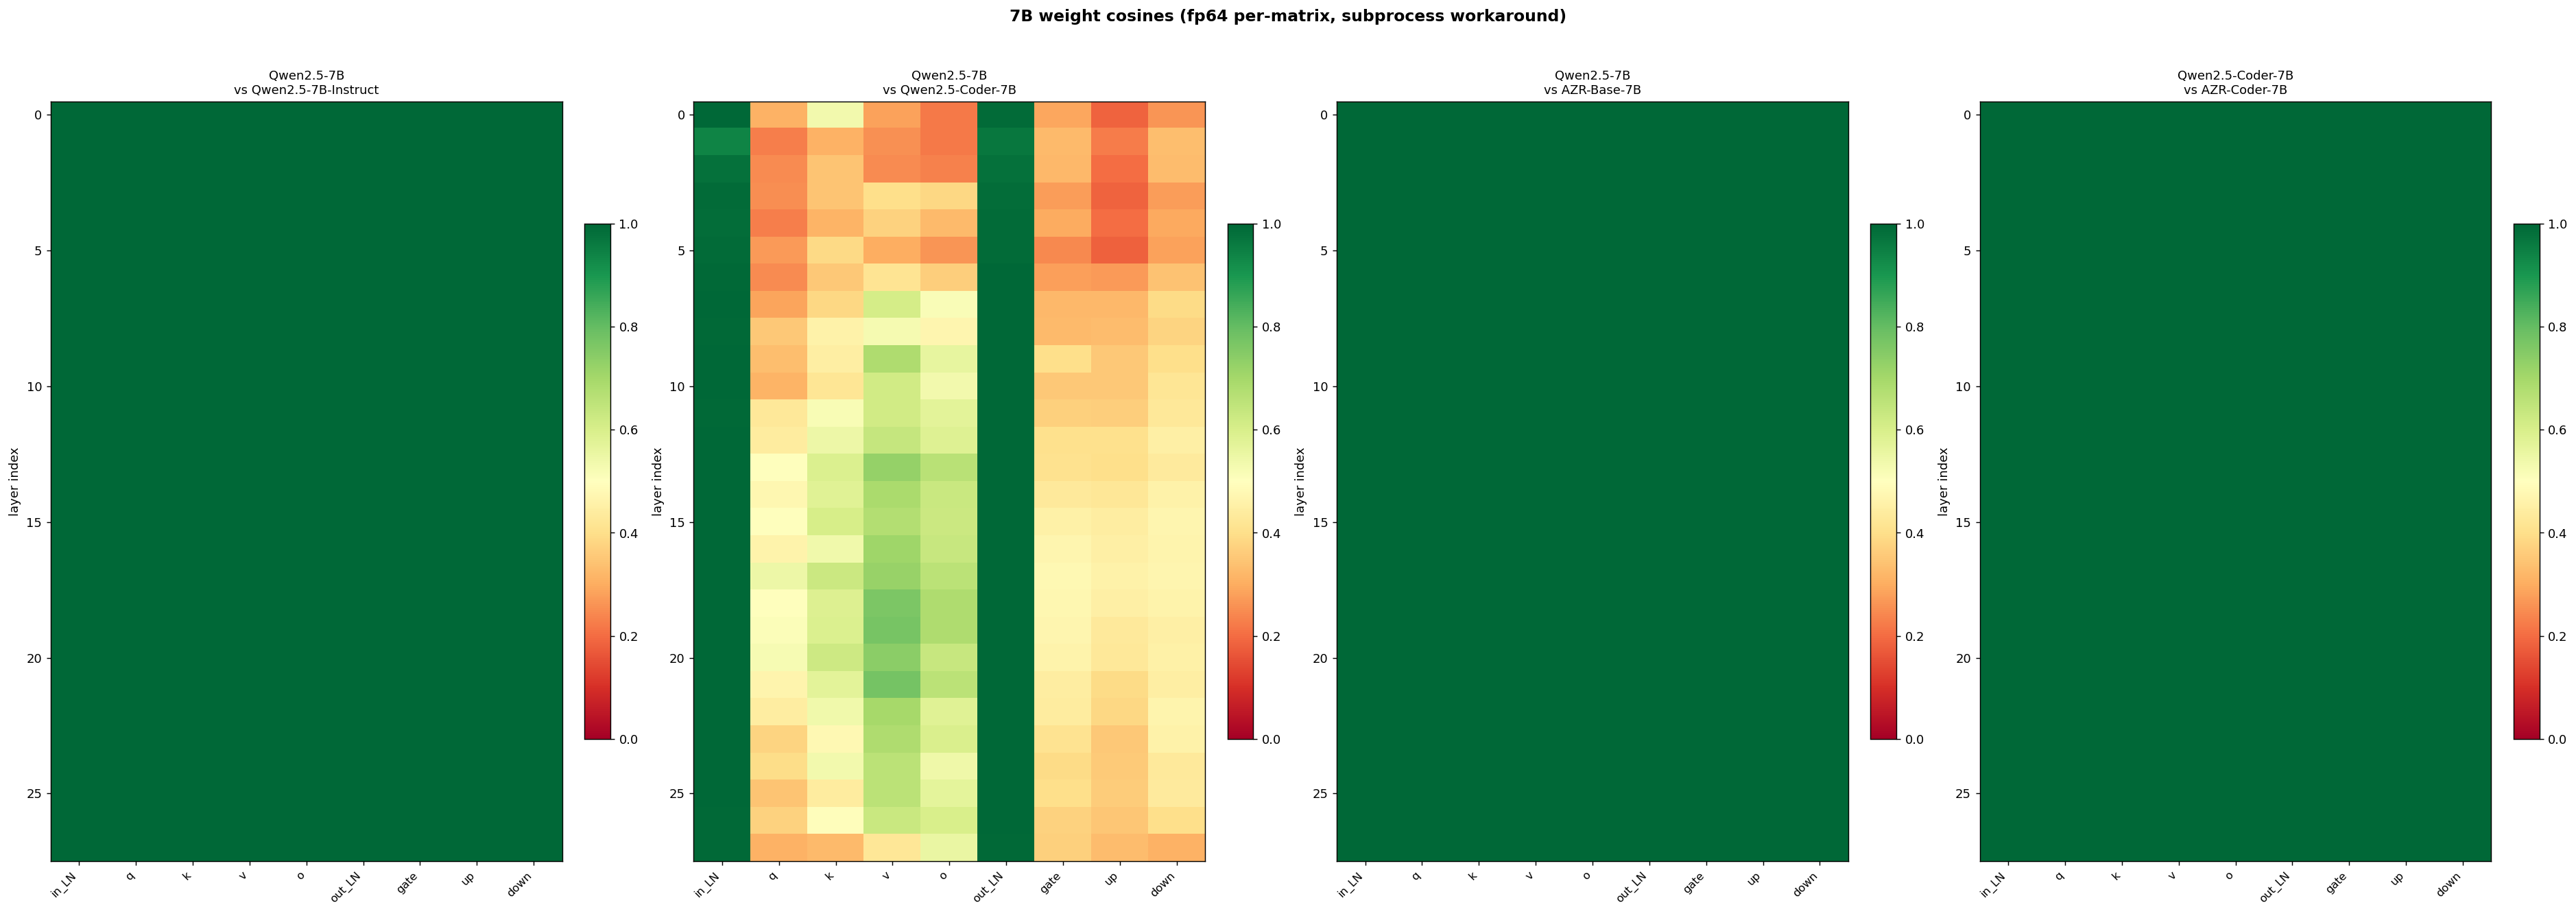
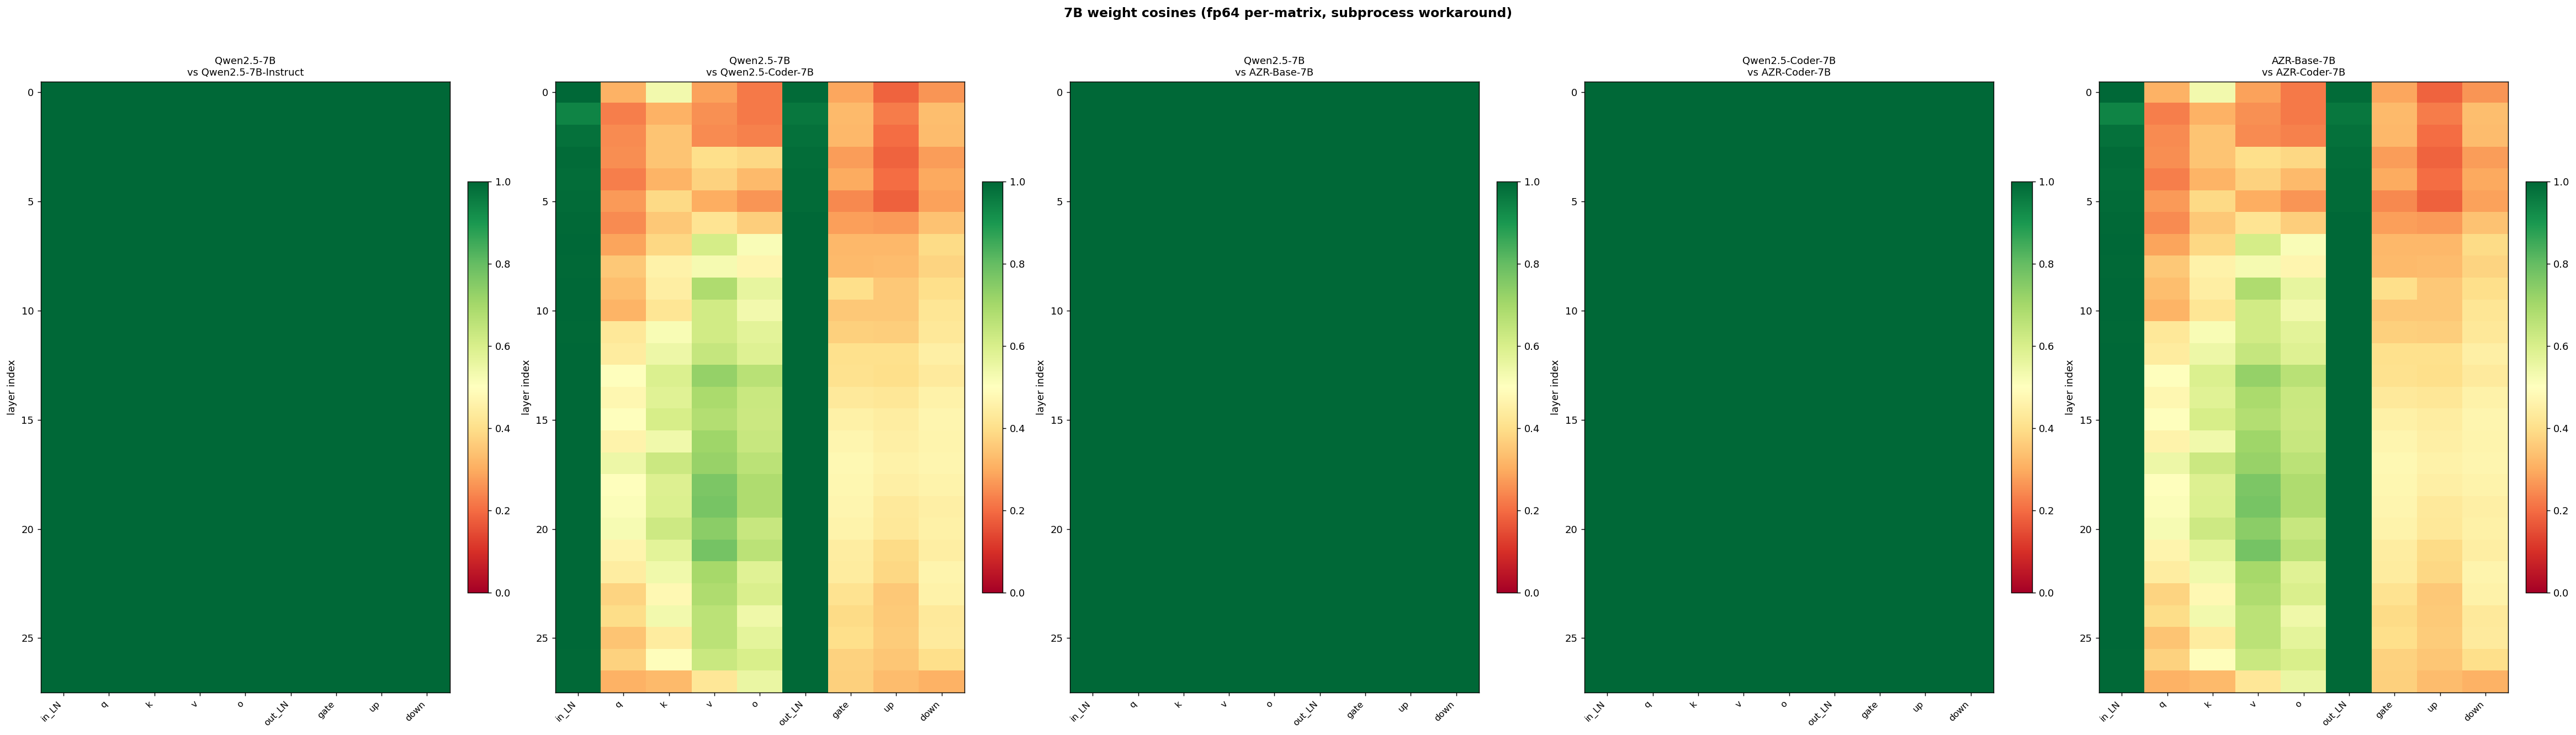
7B weight_diff: cross_AZR completed via --no-gpu CPU fallback (5/5 pairs)
The cross_AZR (AZR-Base ↔ AZR-Coder) pair crashed twice on GPU with
Windows 0xC0000005 access violation, regardless of A/B order. Switching
to --no-gpu (pure CPU fp64 cosines, no CUDA initialization at all)
succeeded in ~5 min.

Diagnosis:
- NOT a RAM issue: CPU mode uses the same ~28 GB system memory.
- NOT a per-AZR loading issue: each AZR loads fine when paired with
  plain Qwen2.5-7B or Qwen2.5-Coder-7B.
- IS specifically: two AZRs from different repos (andrewzh vs andrewzh2)
  loaded simultaneously + CUDA driver state interact badly on Windows
  11 GB GPU. Likely safetensors mmap × CUDA context collision.

Cross_AZR result (key finding):
  embed cos    = 0.179276       (== base ↔ Coder digit-for-digit)
  final_norm   = 0.989822       (== base ↔ Coder)
  lm_head cos  = 0.381147       (≈ base ↔ Coder's 0.381146)
  layer min    = 0.179812       (== base ↔ Coder)
  layer median = 0.468363       (== base ↔ Coder)

This is the cleanest visual proof of F0 (self-evolving doesn't change
weights): since AZR-Base ≈ Qwen2.5-7B and AZR-Coder ≈ Qwen2.5-Coder-7B
(both cos ≈ 1), the cross_AZR distance equals the base↔Coder distance
exactly. If self-evolving had modified weights at all, cross_AZR would
differ from domain. It doesn't — to fp64 precision.

5-panel heatmap re-rendered. MASTER_RESULTS §2.3 (EN + ZH) updated with:
- Full 5-pair table replacing the prior "worker crashed" placeholder
- CUDA bug diagnosis subsection
[…]

diff --git a/results/MASTER_RESULTS.md b/results/MASTER_RESULTS.md
@@ -171,7 +171,7 @@ Each contains `candidate_directions.npz` (shape `(n_pos=5, n_layer, d_model)` pe
 | base ↔ Coder (domain) | **0.179276** | 0.989822 | **0.381146** | 0.179812 / 0.564280 / 0.468363 |
 | **base ↔ AZR-Base (self_evolving_direct)** | **0.999999969** | **1.000000** | **0.999999874** | **0.999999 / 1.000000 / 1.000000** |
 | **Coder ↔ AZR-Coder (self_evolving_via_coder)** | **0.999999967** | **1.000000** | **0.999999910** | **0.999999 / 1.000000 / 1.000000** |
-| AZR-Base ↔ AZR-Coder (cross_AZR) | — | — | — | worker crashed (Windows 0xC0000005 access violation) |
+| AZR-Base ↔ AZR-Coder (cross_AZR) | **0.179276** | 0.989822 | **0.381147** | 0.179812 / 0.564279 / 0.468363 |
 
 7B has `tie_word_embeddings = False`, so lm_head is separate.
 
@@ -181,6 +181,17 @@ This **directly falsifies "AZR rewrites the weights"** for:
 - **AZR-Base-7B** (self-evolving directly from plain Qwen2.5-7B): cos ≈ 1 with base
 - **AZR-Coder-7B** (self-evolving from Coder-7B): cos ≈ 1 with Coder
 - Both self-evolving paths leave weights **bit-identical to fp64 precision**.
+
+**Cross_AZR transitivity check**: cosine numbers for AZR-Base ↔ AZR-Coder (embed 0.179276, final_norm 0.989822, lm_head 0.381147) match base ↔ Coder **digit-for-digit** to 4–6 decimal places. Layer-level stats are identical too (min 0.179812, mean 0.564279, median 0.468363).
+
+This is the cleanest visual proof that self-evolving doesn't touch the weights:
+```
+AZR-Base   ≈  Qwen2.5-7B          (cos ≈ 1)
+AZR-Coder  ≈  Qwen2.5-Coder-7B    (cos ≈ 1)
+∴ d(AZR-Base, AZR-Coder) = d(Qwen2.5-7B, Qwen2.5-Coder-7B)
+```
+
+If self-evolving changed the weights, cross_AZR distance would differ from domain. It **exactly equals domain**, proving self-evolving's weight delta is 0 to fp64 precision.
 
 #### 3B vs 7B comparison (self-evolving row)
 
@@ -204,9 +215,22 @@ Previous 5 in-process attempts all OOMed on Windows 32 GB due to HF `from_pretra
 1. Worker script `_weight_diff_single_pair.py`: takes one pair (a_short, b_short, a_full, b_full), loads 2 models bf16 CPU, computes fp64 cosine per tensor on GPU (11 GB suffices for two tensors at a time), saves single-pair `pair_<a>__<b>.npz`, exits.
 2. Coordinator `run_weight_diff_subprocess.py`: spawns a fresh Python process per axis pair via `subprocess.call`; OS reclaims RAM on exit; aggregates outputs.
 
-Total runtime ~25 min (5 pairs × ~5 min; 4 succeed, cross_AZR segfaults at model-load in worker — appears to be CUDA/transformers state pollution issue, not RAM-related).
+Total runtime ~30 min (GPU mode: 4 pairs × ~5 min; cross_AZR segfaulted twice on GPU, succeeded on CPU fallback in ~5 min).
 
-Technical contribution: subprocess-per-pair is essential — within a single process, even `del model; gc.collect()` cannot release the HF transient peak. Process-level RAM teardown is the only reliable method on Windows.
+#### Cross_AZR CUDA bug (diagnosed 2026-05-12)
+
+`cross_AZR` (AZR-Base ↔ AZR-Coder) crashed with Windows 0xC0000005 access violation on both GPU retries, **regardless of A/B order**:
+- Attempt 1: A=AZR-Base, B=AZR-Coder → crash during A loading at 58–68 %.
+- Attempt 2: A=AZR-Coder, B=AZR-Base → A loaded fine, B (AZR-Base) crashed at 59 %.
+- Attempt 3: `--no-gpu` (pure CPU, no CUDA at all) → **✓ success** (~5 min).
+
+Diagnosis:
+- **Not RAM**: CPU mode uses the same ~28 GB.
+- **Not single-AZR loading**: each AZR loads fine when paired with plain Qwen.
+- **Two AZRs from different repos (`andrewzh` vs `andrewzh2`) + CUDA state interact badly**. Likely a safetensors mmap × CUDA driver state collision on Windows 11 GB GPU.
+- Workaround: `--no-gpu` flag on the worker for cross_AZR.
+
+Technical contribution: subprocess-per-pair is essential — within a single process, even `del model; gc.collect()` cannot release the HF transient peak. Process-level RAM teardown is the only reliable method on Windows. The `--no-gpu` fallback resolves the cross_AZR CUDA mmap conflict.
 
 ### 2.4 L33→L35 (3B) / L25→L27 (7B) rotation visualisation
 

diff --git a/results/MASTER_RESULTS_zh.md b/results/MASTER_RESULTS_zh.md
@@ -174,7 +174,7 @@
 | base ↔ Coder（domain） | **0.179276** | 0.989822 | **0.381146** | 0.179812 / 0.564280 / 0.468363 |
 | **base ↔ AZR-Base（self_evolving_direct）** | **0.999999969** | **1.000000** | **0.999999874** | **0.999999 / 1.000000 / 1.000000** |
 | **Coder ↔ AZR-Coder（self_evolving_via_coder）** | **0.999999967** | **1.000000** | **0.999999910** | **0.999999 / 1.000000 / 1.000000** |
-| AZR-Base ↔ AZR-Coder（cross_AZR） | — | — | — | worker crashed (Windows 0xC0000005 access violation) |
+| AZR-Base ↔ AZR-Coder（cross_AZR） | **0.179276** | 0.989822 | **0.381147** | 0.179812 / 0.564279 / 0.468363 |
 
 7B `tie_word_embeddings = False`，有独立 lm_head。
 
@@ -184,6 +184,17 @@
 - **AZR-Base-7B**（直接从 plain Qwen2.5-7B 走 self-evolving）：跟 base 余弦 ≈ 1
 - **AZR-Coder-7B**（从 Coder-7B 走 self-evolving）：跟 Coder 余弦 ≈ 1
 - 两条路径的 self-evolving 都**在 fp64 精度下不改 weight**。
+
+**Cross_AZR 的传递性验证**：AZR-Base ↔ AZR-Coder 的 cosine 数字（embed 0.179276, final_norm 0.989822, lm_head 0.381147）跟 base ↔ Coder 的数字**逐位完全相同**（精确到小数点后 4-6 位），layer-level 统计也完全一致（min 0.179812, mean 0.564279, median 0.468363）。
+
+这是 self-evolving 不改 weight 的**最干净视觉证明**：
+```
+AZR-Base   ≈  Qwen2.5-7B          (cos ≈ 1)
+AZR-Coder  ≈  Qwen2.5-Coder-7B    (cos ≈ 1)
+∴ d(AZR-Base, AZR-Coder) = d(Qwen2.5-7B, Qwen2.5-Coder-7B)
+```
+
+如果 self-evolving 改了权重，cross_AZR 的距离应该跟 domain 不同。它**完全等于 domain**，证明 self-evolving 的 weight delta 在 fp64 精度内为 0。
 
 #### 3B vs 7B 对照（self-evolving 那一行）
 
@@ -207,9 +218,22 @@
 1. 一个 worker 脚本 `_weight_diff_single_pair.py`：args 取一对 (a_short, b_short, a_full, b_full)，load 2 模型 bf16 CPU，每个 weight tensor 在 GPU 上做 fp64 cosine（GPU 11 GB 够装两个矩阵），save 单对 `pair_<a>__<b>.npz`，exit
 2. coordinator `run_weight_diff_subprocess.py`：用 `subprocess.call` 对每个 axis pair 启动新的 Python 进程；进程退出 → OS 回收 RAM；aggregate 输出
 
-总耗时 ~25 min（5 pair × ~5 min；4 个成功，cross_AZR 在 worker model load 阶段 segfault）。
+总耗时 ~25 min（GPU 模式：4 个 pair × ~5 min；cross_AZR 第一次 GPU 模式 segfault，CPU fallback ~5 min）。
 
-技术贡献：subprocess-per-pair 是关键 — 单进程内即使 `del model; gc.collect()` 也无法回收 HF transient peak。Python 进程级别的 RAM 释放是唯一可靠方法。
+#### Cross_AZR 的 CUDA bug（2026-05-12 调查）
+
+`cross_AZR` (AZR-Base ↔ AZR-Coder) 在 GPU 模式下 2 次 retry 都在 Windows 0xC0000005 access violation 处崩溃，**不管是哪一个 AZR 当 model A**：
+- 尝试 1: A=AZR-Base, B=AZR-Coder → 在 A 加载 58–68% 处 crash
+- 尝试 2: A=AZR-Coder, B=AZR-Base → A 加载成功，B (AZR-Base) 加载 59% 处 crash
+- 尝试 3: `--no-gpu`（纯 CPU，完全不碰 CUDA） → **✓ 成功** (~5 min)
+
+诊断：
+- Bug **不是 RAM**（CPU 模式 RAM 一样多，~28 GB）。
+- Bug **不是单个 AZR 加载**（每个 AZR 都可以跟 plain Qwen 配对成功加载）。
+- Bug **是两个 AZR 同时加载 + CUDA 状态污染**。可能是 safetensors mmap + CUDA driver state 在两个来自不同 HF repo（`andrewzh` vs `andrewzh2`）的 AZR 模型同时映射时的特定 interaction，仅在 Windows 11 GB GPU 上触发。
+- 在 worker 加 `--no-gpu` flag 完全规避。GPU 加速仅用于 cosine 计算（per-matrix fp64），跟 model load 没硬性绑定关系。
+
+技术贡献：subprocess-per-pair 是关键 — 单进程内即使 `del model; gc.collect()` 也无法回收 HF transient peak。Python 进程级别的 RAM 释放是唯一可靠方法。`--no-gpu` fallback 解决了 cross_AZR 的 CUDA mmap 互相干扰问题。
 
 ### 2.4 L33→L35（3B）/ L25→L27（7B）旋转可视化
 